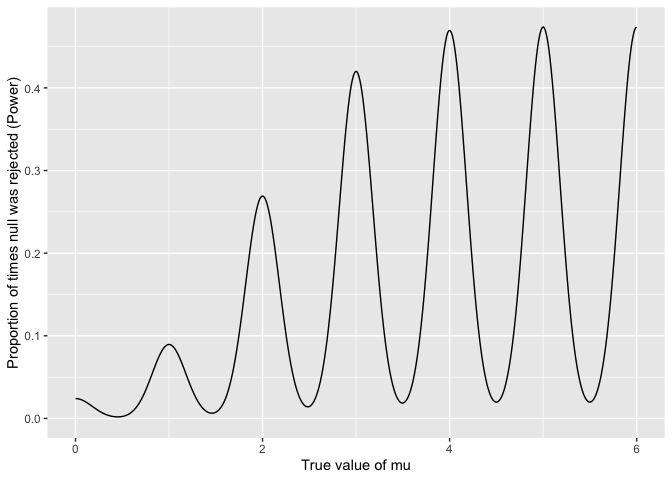
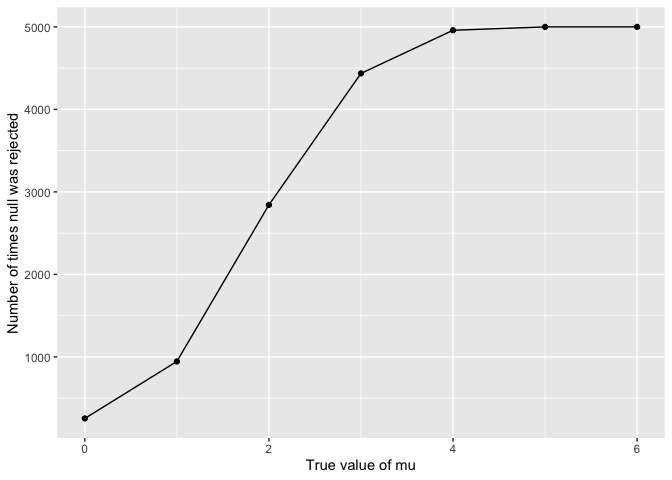
problem 2 -- fix plot of true mu and freq of rejected nulls

diff --git a/p8105_hw5_dcm2192.md b/p8105_hw5_dcm2192.md
@@ -49,9 +49,12 @@ Plot mu 0-6 where null was rejected.
 ``` r
 sim_results_df |> 
   filter(p_value <= 0.05) |> 
-  ggplot(aes(x = mu)) + 
-  geom_density() + 
-  labs(x = "True value of mu", y = "Proportion of times null was rejected (Power)")
+  group_by(mu) |> 
+  summarize(n_obs = n()) |> 
+  ggplot(aes(x = mu, y = n_obs)) + 
+  geom_point() + 
+  geom_line() + 
+  labs(x = "True value of mu", y = "Number of times null was rejected")
 ```
 
 ![](p8105_hw5_dcm2192_files/figure-gfm/unnamed-chunk-3-1.png)<!-- -->
